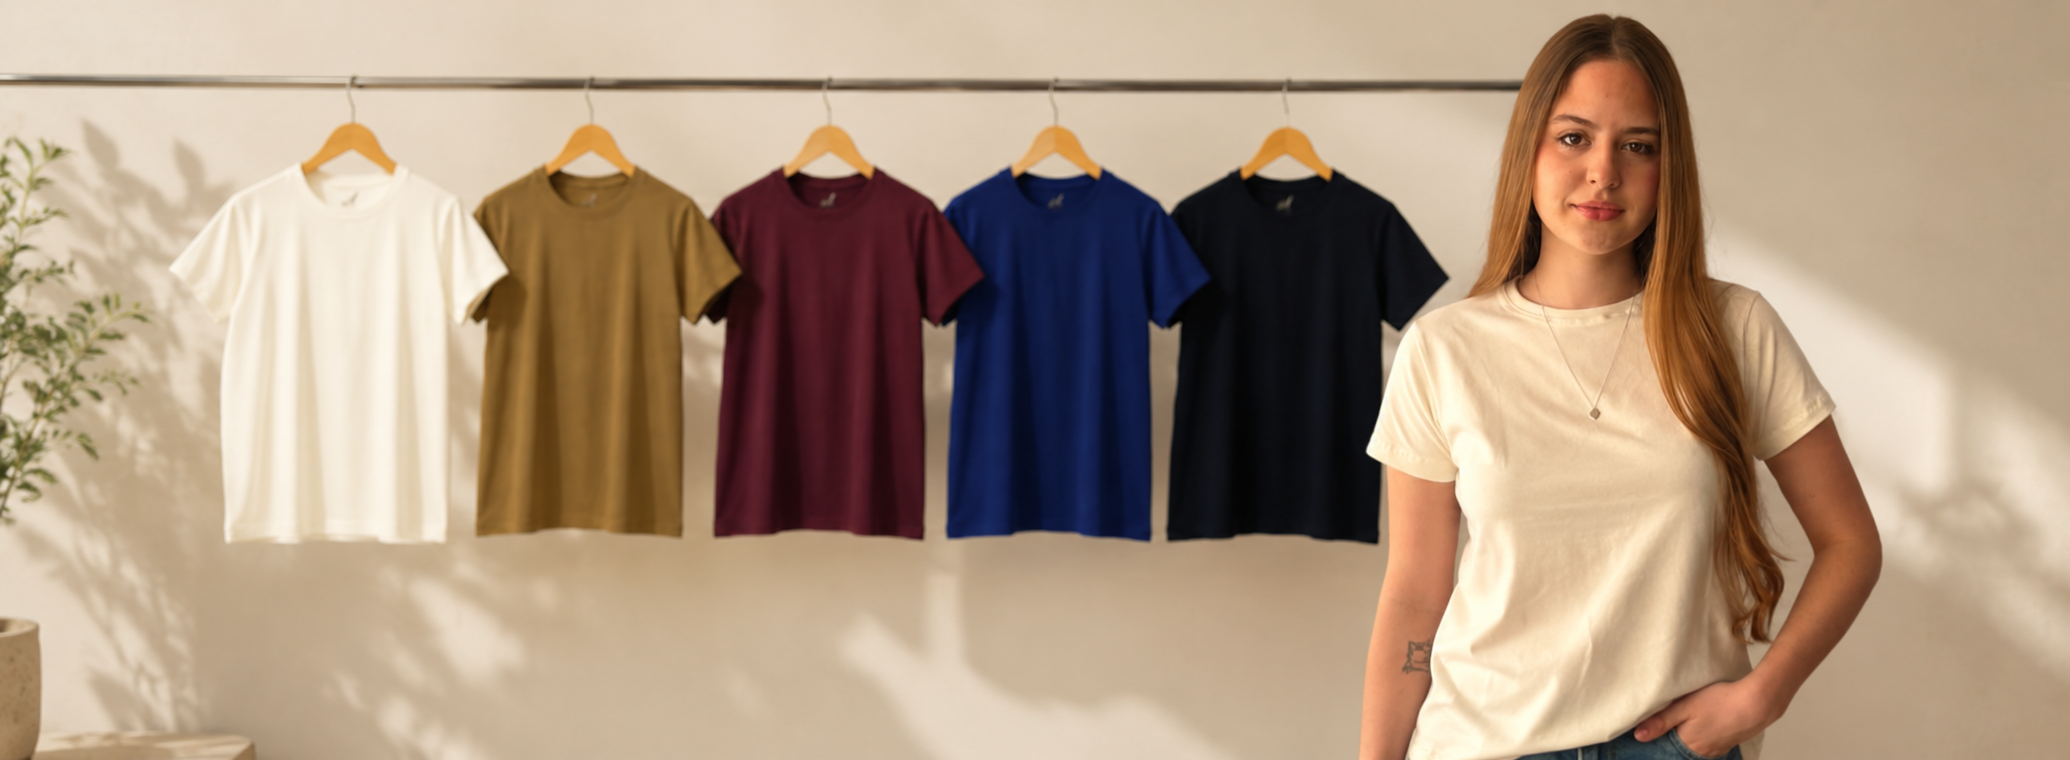
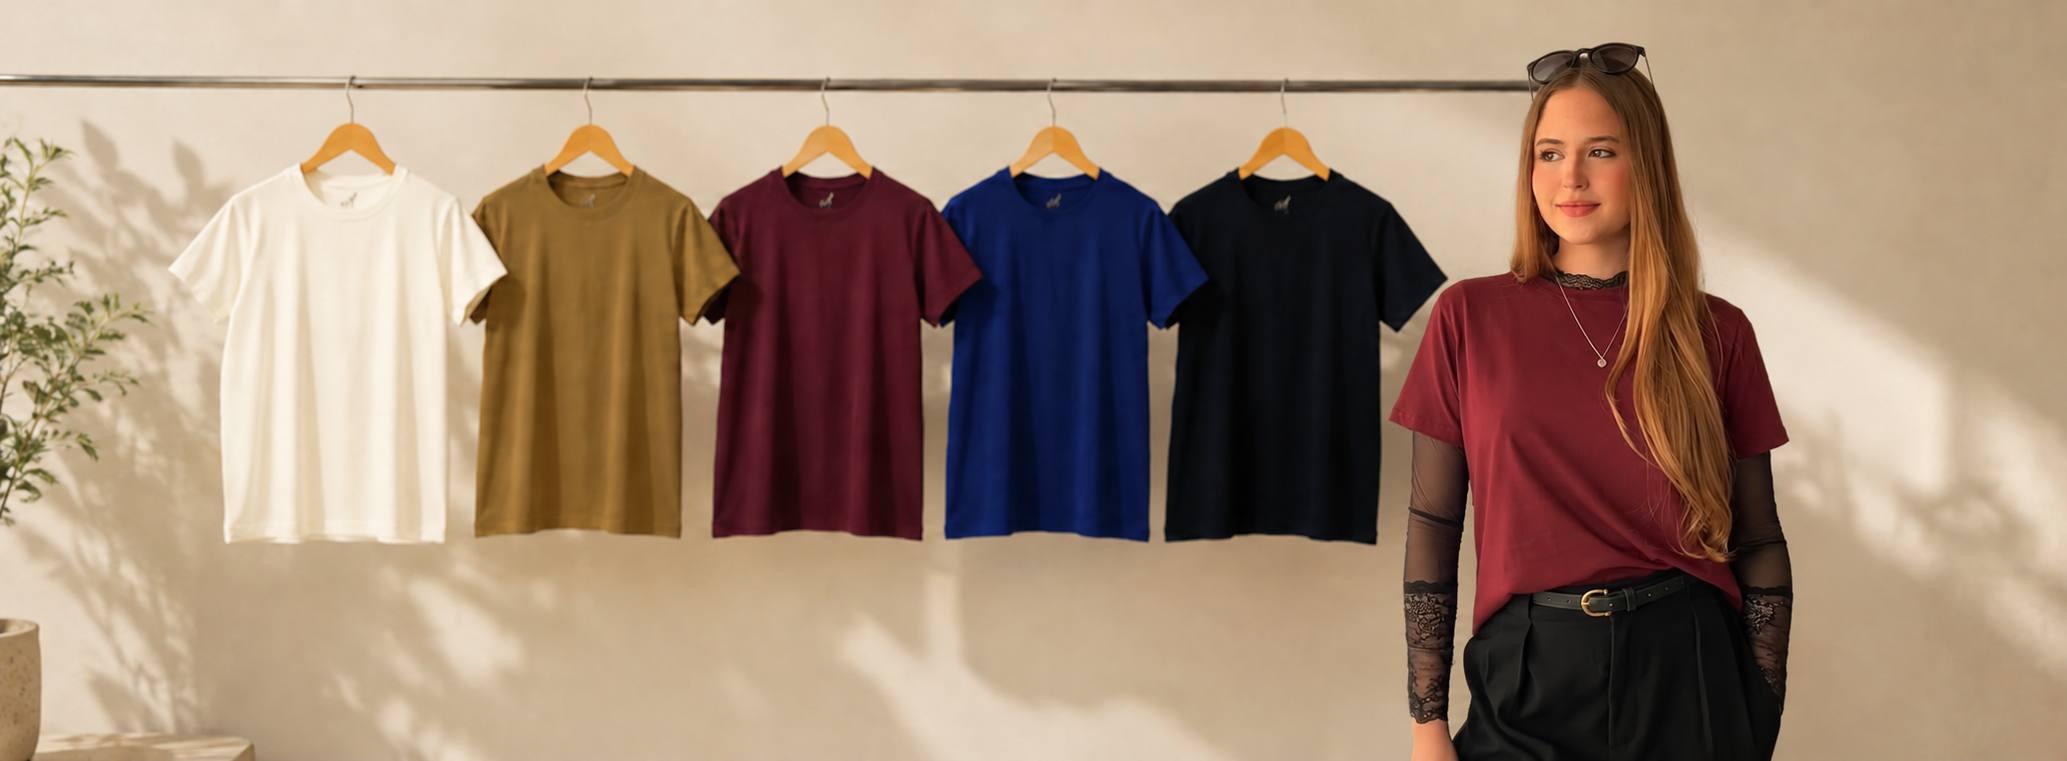
ok

Changed region(s): [[0.6502, 0.0, 0.9289, 1.0], [0.0, 0.6053, 0.031, 0.6355], [0.0, 0.4842, 0.031, 0.5145]]

diff --git a/index.html b/index.html
@@ -573,7 +573,7 @@
       content: '';
       position: absolute;
       inset: 0;
-      background: rgba(0,0,0,0.45);
+      background: rgba(0,0,0,0.28);
       pointer-events: none;
     }
 
@@ -3608,14 +3608,14 @@
       {
         trackId: 'productsTrack',
         products: [
-          { name: 'Camiseta Básica - Off White', images: ['assets/images/camisetasredondaspessoas/7.jpg', 'assets/images/camisetas/1.jpg'], price: 'R$ 79,90' },
-          { name: 'Camiseta Básica - Preta', images: ['assets/images/camisetasredondaspessoas/6.jpg', 'assets/images/camisetas/5.jpg'], price: 'R$ 79,90' },
+          { name: 'Camiseta Básica - Off White', images: ['assets/images/camisetasredondaspessoas/7.jpg', 'assets/images/camisetas/1.jpg', 'assets/images/novasredondas/1.jpg'], price: 'R$ 79,90' },
+          { name: 'Camiseta Básica - Preta', images: ['assets/images/camisetasredondaspessoas/6.jpg', 'assets/images/camisetas/5.jpg', 'assets/images/novasredondas/3.jpg', 'assets/images/novasredondas/4.jpg', 'assets/images/novasredondas/5.jpg'], price: 'R$ 79,90' },
           { name: 'Camiseta Básica - Marinho', images: ['assets/images/camisetasredondaspessoas/8.png', 'assets/images/camisetas/4.jpg'], price: 'R$ 79,90' },
-          { name: 'Camiseta Básica - Marsala', images: ['assets/images/camisetasredondaspessoas/5.jpg', 'assets/images/camisetas/3.jpg'], price: 'R$ 79,90' },
+          { name: 'Camiseta Básica - Marsala', images: ['assets/images/camisetasredondaspessoas/5.jpg', 'assets/images/camisetas/3.jpg', 'assets/images/novasredondas/2.jpg'], price: 'R$ 79,90' },
           { name: 'Camiseta Básica - Caramelo', images: ['assets/images/camisetasredondaspessoas/1.jpg', 'assets/images/camisetas/2.jpg'], price: 'R$ 79,90' },
-          { name: 'Camiseta Básica - Verde Menta', images: ['assets/images/camisetasredondaspessoas/2.jpg'], price: 'R$ 79,90' },
-          { name: 'Camiseta Básica - Verde Bandeira', images: ['assets/images/camisetasredondaspessoas/3.jpg'], price: 'R$ 79,90' },
-          { name: 'Camiseta Básica - Verde Militar', images: ['assets/images/camisetasredondaspessoas/4.jpg'], price: 'R$ 79,90' }
+          { name: 'Camiseta Básica - Verde Cidreira', images: ['assets/images/camisetasredondaspessoas/2.jpg', 'assets/images/novasredondas/7.jpg'], price: 'R$ 79,90' },
+          { name: 'Camiseta Básica - Verde Mata', images: ['assets/images/camisetasredondaspessoas/3.jpg'], price: 'R$ 79,90' },
+          { name: 'Camiseta Básica - Verde Oliva', images: ['assets/images/camisetasredondaspessoas/4.jpg', 'assets/images/novasredondas/6.jpg'], price: 'R$ 79,90' }
         ]
       },
       {
@@ -3623,11 +3623,11 @@
         products: [
           { name: 'Camiseta Gola V - Off White', images: ['assets/images/camisetasvpessoas/7.png', 'assets/images/camisetas v/1.jpg'], price: 'R$ 79,90' },
           { name: 'Camiseta Gola V - Preta', images: ['assets/images/camisetasvpessoas/5.png', 'assets/images/camisetas v/5.jpg'], price: 'R$ 79,90' },
-          { name: 'Camiseta Gola V - Marinho', images: ['assets/images/camisetasvpessoas/1.png', 'assets/images/camisetas v/4.jpg'], price: 'R$ 79,90' },
+          { name: 'Camiseta Gola V - Marinho', images: ['assets/images/camisetasvpessoas/1.png', 'assets/images/camisetas v/4.jpg', 'assets/images/novasv/1.jpg', 'assets/images/novasv/2.jpg'], price: 'R$ 79,90' },
           { name: 'Camiseta Gola V - Marsala', images: ['assets/images/camisetasvpessoas/8.png', 'assets/images/camisetas v/2.jpg'], price: 'R$ 79,90' },
           { name: 'Camiseta Gola V - Caramelo', images: ['assets/images/camisetasvpessoas/6.png', 'assets/images/camisetas v/3.jpg'], price: 'R$ 79,90' },
-          { name: 'Camiseta Gola V - Verde Menta', images: ['assets/images/camisetasvpessoas/4.png'], price: 'R$ 79,90' },
-          { name: 'Camiseta Gola V - Verde Bandeira', images: ['assets/images/camisetasvpessoas/2.png', 'assets/images/camisetasvpessoas/3.png'], price: 'R$ 79,90' }
+          { name: 'Camiseta Gola V - Verde Cidreira', images: ['assets/images/camisetasvpessoas/4.png'], price: 'R$ 79,90' },
+          { name: 'Camiseta Gola V - Verde Mata', images: ['assets/images/camisetasvpessoas/2.png', 'assets/images/camisetasvpessoas/3.png', 'assets/images/novasv/3.jpg'], price: 'R$ 79,90' }
         ]
       }
     ];
